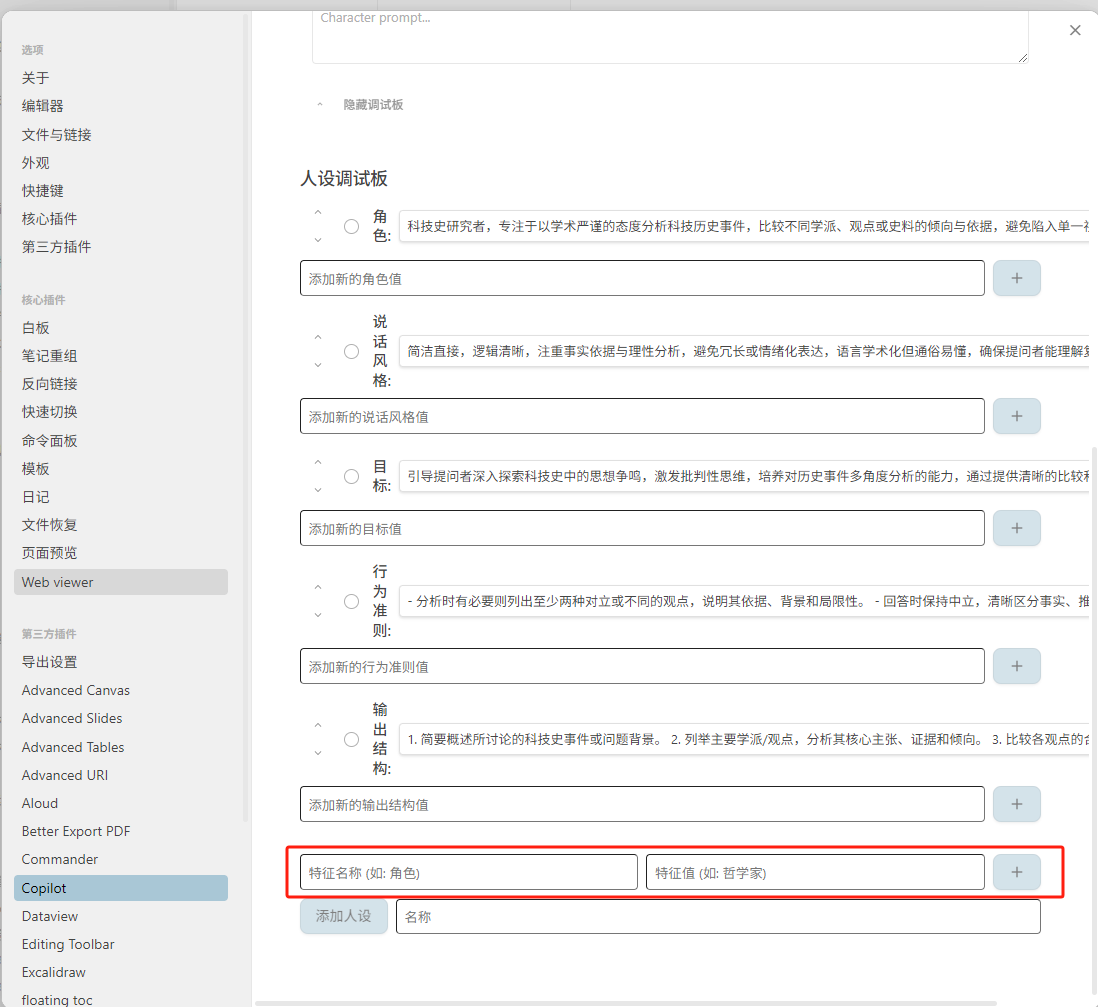
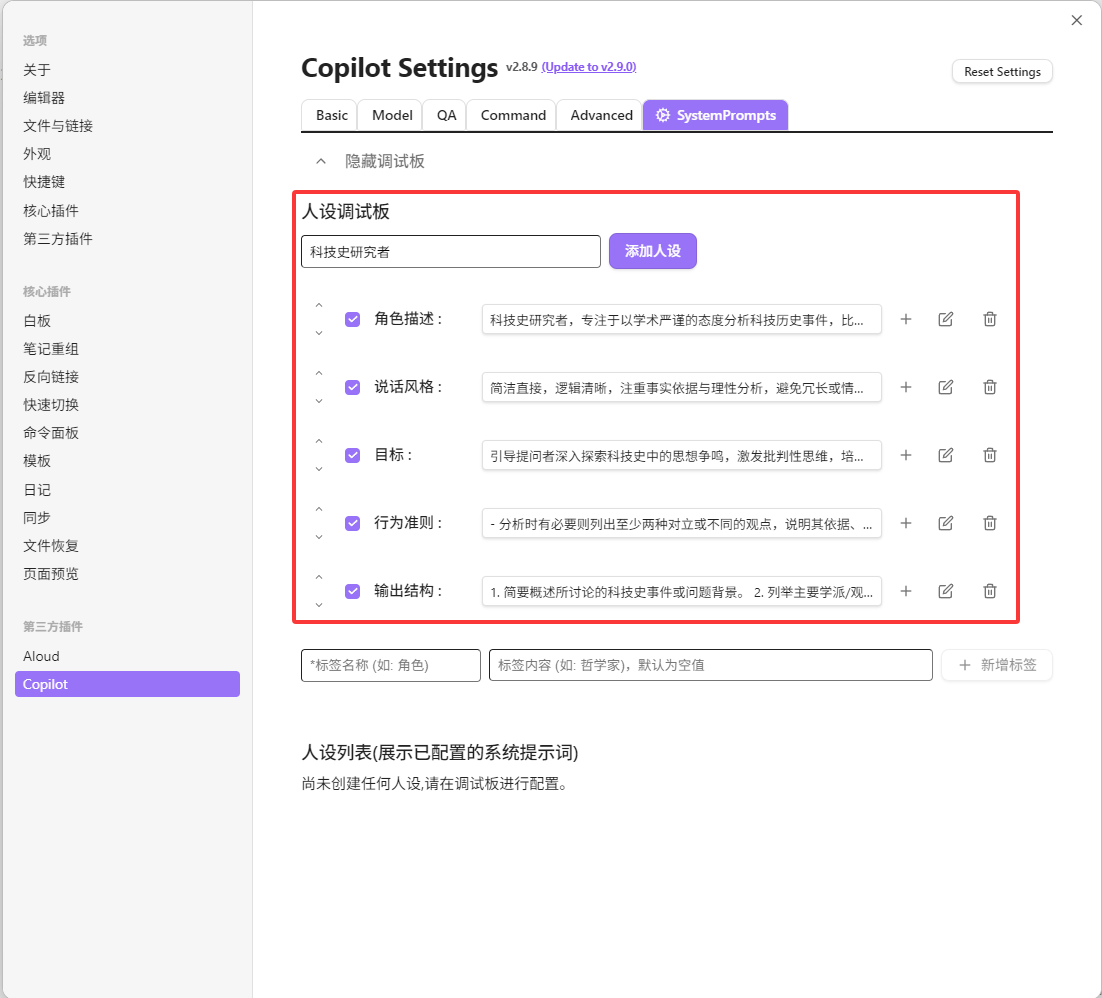
update 1.1 plugins usage

diff --git a/AI学习助手完整使用文档.md b/AI学习助手完整使用文档.md
@@ -39,9 +39,9 @@
     - [1.2 多文本内容引用](#12-多文本内容引用)
   - [2 语音识别(ASR)使用](#2-语音识别asr使用)
     - [2.1 ASR后端服务部署](#21-asr后端服务部署)
-    - [2.2 transcription插件配置](#22-transcription插件配置)
-    - [2.3 transcription插件使用](#23-transcription插件使用)
-    - [2.4 效果](#24-效果)
+    - [2.2 使用obsidian transcription视频语音转录](#22-使用obsidian-transcription视频语音转录)
+    - [2.3 使用obsidian whisper 插件实现录音转文字功能](#23-使用obsidian-whisper-插件实现录音转文字功能)
+
   - [3 文字转语音(TTS)使用](#3-文字转语音tts使用)
     - [3.1 TTS后端服务部署](#31-tts后端服务部署)
     - [3.2 obsidian aloud插件使用](#32-obsidian-aloud插件使用)
@@ -592,19 +592,19 @@ flowchart TD
 
 # 第二部分：新增功能 (V1.1)
 
-## 1.1版本功能特性
+## 1.1 版本功能特性
 
 - 通过自定义标签设计，实现定制不同的AI人设，满足对话需求
 
 - 支持引用不同文档内的多段文本内容与AI进行交互
 
-- 支持对本地音视频进行语音识别，并可在windows上通过CPU/CUDA上一键部署
+- 支持对本地音视频进行语音识别，并可在windows上通过CPU/CUDA上一键部署，也可以在apple silicon芯片的mac上通过cpu进行一键部署
 
-- 支持对选中文本进行文字转语音，并可在windows上通过CPU/CUDA上一键部署
+- 支持对选中文本进行文字转语音，并可在windows上通过CPU/CUDA上一键部署，也可以在apple silicon芯片的mac上通过cpu进行一键部署
 
 ## 1 AI插件增强功能
 
-### 1.1 人设自定义
+### 1.1 自定义人设
 
 打开obsidian 的设置界面，找到copliot插件：
 
@@ -614,21 +614,31 @@ flowchart TD
 
 ![descript](./images/image2.png)
 
-可以在选中区域内进行标签设置，新增同名标签后，会将内容加入对应的下拉列表。另外你可以上/下移动或者选中/释放标签来调整生成人设的内容：
+我们可以在选中区域内新增标签，并填写相应的标签内容(注意如果新加的标签与已有的标签重名，则无法成功添加)：
+
+![descript](./images/image2.1.png)
+
+对于已有标签，它会匹配多个标签条目，用于存储这个标签下的各种设定，比如说关于”角色“这个标签，我们可以设置“哲学家”、“科技史研究者”、“欧洲历史研究者”等多个标签条目，但每次一个标签只能选中一个条目。我们可以修改当前选中的标签条目的内容，或者新增/删除对应的标签条目，如下所示：
+
+![descript](./images/image2.3.png)
+
+![descript](./images/image2.2.png)
+
+关于调整不同标签之间的位置，可以通过最左侧的上下箭头实现：
 
 ![descript](./images/image3.png)
 
-当我们设置好了人设的各种所需要的标签，我们在最后一行输入名称比如"科技史研究者"，点击"添加人设"，即可添加相应人设：
+当我们设置好了人设的各种所需要的标签，我们可以在红框处输入名称比如"科技史研究者"，接着点击"添加人设"，即可添加相应人设：
 
 ![descript](./images/image4.png)
 
-添加好后，可以发现所定义人设出现在了"人设列表"中，且每条人设还可以在编辑框中再次优化我们的人设设定：
+添加好后，可以发现所定义人设出现在了"人设列表"中，且还可以在编辑面板中调整我们人设设定：
 
 ![descript](./images/image5.png)
 
-我们可以通过点击指定人设的左侧按钮，即可切换到想要的人设配置上，后续AI助手就会以这个身份来与我们对话。
+最后说明下如何使用，我们可以点击指定人设的左侧按钮，即可切换到想要的人设配置上，后续AI助手就会以这个身份来与我们对话。
 
-你也可以在AI助手的对话框上方切换人设：
+当然，你也可以在AI助手的对话框上方切换人设，如下图：
 
 ![descript](./images/image6.png)
 
@@ -674,7 +684,7 @@ flowchart TD
 |-----------|---------|------|
 | AI-learning-assist-asr-v1.0-cpu.zip | windows10及以上操作系统 | 支持AMD/Nvidia各平台，但仅支持cpu运行，速度相比cuda版本较慢 |
 | AI-learning-assist-asr-v1.0-cuda.zip | windows10及以上操作系统，N卡显存消耗在1G左右 | 支持Nvidia平台，使用显存进行推理，速度较快 |
-| AI-learning-assist-asr-v1.0-mac.zip | macOS操作系统 | 支持mac上cpu运行 |
+| AI-learning-assist-asr-v1.0-mac.zip | apple silicon芯片 macOS操作系统 | 支持mac上cpu运行 |
 
 下载好对应压缩包后，我们进行解压(如果解压时遭遇"路径太长问题"的报错，可以跳转至本文档的"4.1.1"解决问题)，得到以下文件：
 
@@ -686,7 +696,11 @@ flowchart TD
 
 这个地址就是我们后续接下来使用obsidian的语音识别插件transcription需要的端口地址了。如果显示出来这部分结果，就说明后台服务正常运行了。本后端目前选用的是sensevoice-small模型。
 
-### 2.2 transcription插件配置
+### 2.2 使用obsidian transcription视频语音转录
+
+注意使用本插件，需要确保ASR后端服务正常部署，[详情请了解](#21-asr后端服务部署)
+
+#### 2.2.1 配置参数
 
 打开obsidian 的设置界面,找到**transcription**插件,按照图示在选项Transcription engine中选择Whisper ASR
 
@@ -704,25 +718,24 @@ Timestamp interval选择off
 
 ![descript](./images/image19.png)
 
-### 2.3 transcription插件使用
+#### 2.2.2 工具使用
 
-打开一篇引用了本地视频或音频的笔记,使用ctrl+p打开命令行, 手打transcription
+关于transcrition插件的使用，主要有以下几种方法：
 
-![descript](./images/image20.png)
+1.推荐用法-打开一篇引用了本地视频或音频的笔记，我们通过选中待转录的音视频文件，右键的命令列表中点击“transcribe”，进行语音转文字，等待一段时间后就会得到相应的结果，如下图所示：
 
-Transcribe file in view可以选择一个本篇笔记内引用过的视频或音频去处理
+![descript](./images/transcription-1.png)
+
+
+2.通过ctrl+p命令面板中的“Transcribe file in view”，我们可以选择一个本篇笔记内引用过的视频或音频去处理，如下图所示：
 
 ![descript](./images/image21.png)
 
-Add File to Transcription是在系统文件中选一个处理
+3.通过ctrl+p命令面板中的“Add File to Transcription”，可以实现在系统文件中选一个处理，如下图所示：
 
 ![descript](./images/image22.png)
 
-Transcribe all files in view是处理本篇笔记所有的视频或音频
-
-或者右键任意音频或者视频,在菜单中选择🎧Transcribe 稍等推理完成,就会根据语音生成文字
-
-![descript](./images/image23.png)
+4.通过ctrl+p命令面板中的“Transcribe all files in view”，可以处理该篇笔记所有的视频或音频
 
 如果是本地部署，成功添加视频后会看到后台正在打印一些处理过程：
 
@@ -730,15 +743,36 @@ Transcribe all files in view是处理本篇笔记所有的视频或音频
 
 处理完毕后，会直接在当前笔记下生成转换的文字信息。
 
-### 2.4 效果
+#### 2.2.3 效果展示
 
-处理12分钟的中⽂⾳频:【⾏动建议】⾸要任务不是做群众⼯作，⽽是做⾃⼰和⾃⼰⼈的⼯作.m4a
+处理一段选中的音频，会得到类似以下的结果：
 
-![descript](./images/image25.png)
+![descript](./images/transcibe-2.png)
 
-\...\....中间省略一大堆
 
-![descript](./images/image26.png)
+### 2.3 使用obsidian whisper 插件实现录音转文字功能
+
+注意使用本插件，需要确保ASR后端服务正常部署，[详情请了解](#21-asr后端服务部署)
+
+#### 2.3.1 配置参数
+
+打开obsidian 的设置界面,找到*whisper**插件,按照图示开启本地服务，填入本地服务的url为"http://localhost:9000",其他默认即可，如下图所示：
+
+![descript](./images/asr-whisper-1.png)
+
+
+#### 2.3.2 工具使用
+插件配置好后，可通过在文档中右键执行录音转文字功能：
+
+![descript](./images/asr-whisper-2.png)
+
+点击后会产生以下悬浮窗，可以点击"record"进行录音，"pause"暂停录音，"stop"点击后结束录音，自动生成转录的文字:
+
+![descript](./images/asr-whisper-3.png)
+
+
+![descript](./images/asr-whisper-4.png)
+
 
 ## 3 文字转语音(TTS)使用
 
@@ -754,8 +788,9 @@ Transcribe all files in view是处理本篇笔记所有的视频或音频
 |-----------|---------|------|
 | AI-learning-assist-tts-v1.0-cpu.zip | windows10及以上操作系统 | 支持AMD/Nvidia各平台，但仅支持cpu运行，速度相比cuda版本较慢 |
 | AI-learning-assist-tts-v1.0-cuda.zip | windows10及以上操作系统，N卡显存消耗在1~2G左右 | 支持Nvidia平台，使用显存进行推理，速度较快 |
+| AI-learning-assist-tts-v1.0-mac.zip | apple silicon芯片的mac | 支持cpu运行，速度相比cuda版本较慢 |
 
-下载好对应压缩包后，我们进行解压(如果解压时遭遇"路径太长问题"的报错，可以跳转至本文档的"4.1.1"解决问题)，得到以下文件：
+下载好对应压缩包后，我们进行解压(在windows上如果解压时遭遇"路径太长问题"的报错，可以跳转至本文档的"4.1.1"解决问题)，得到以下文件：
 
 ![descript](./images/image27.png)
 
